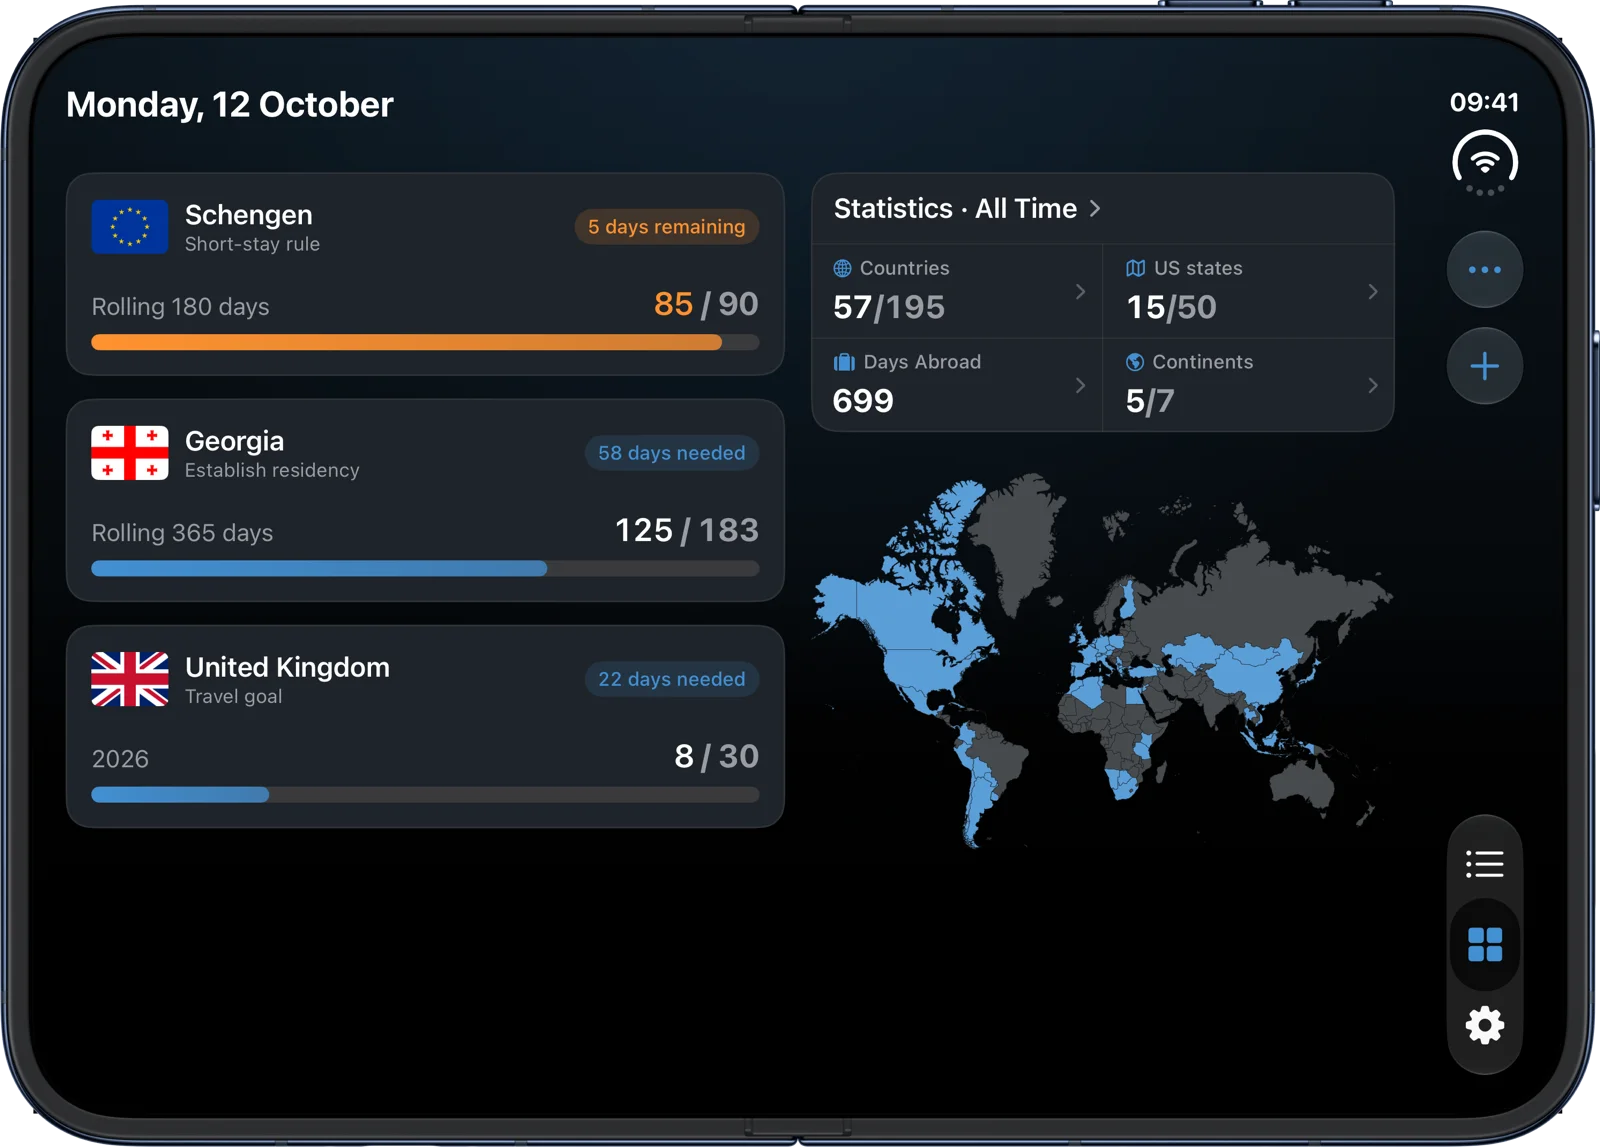
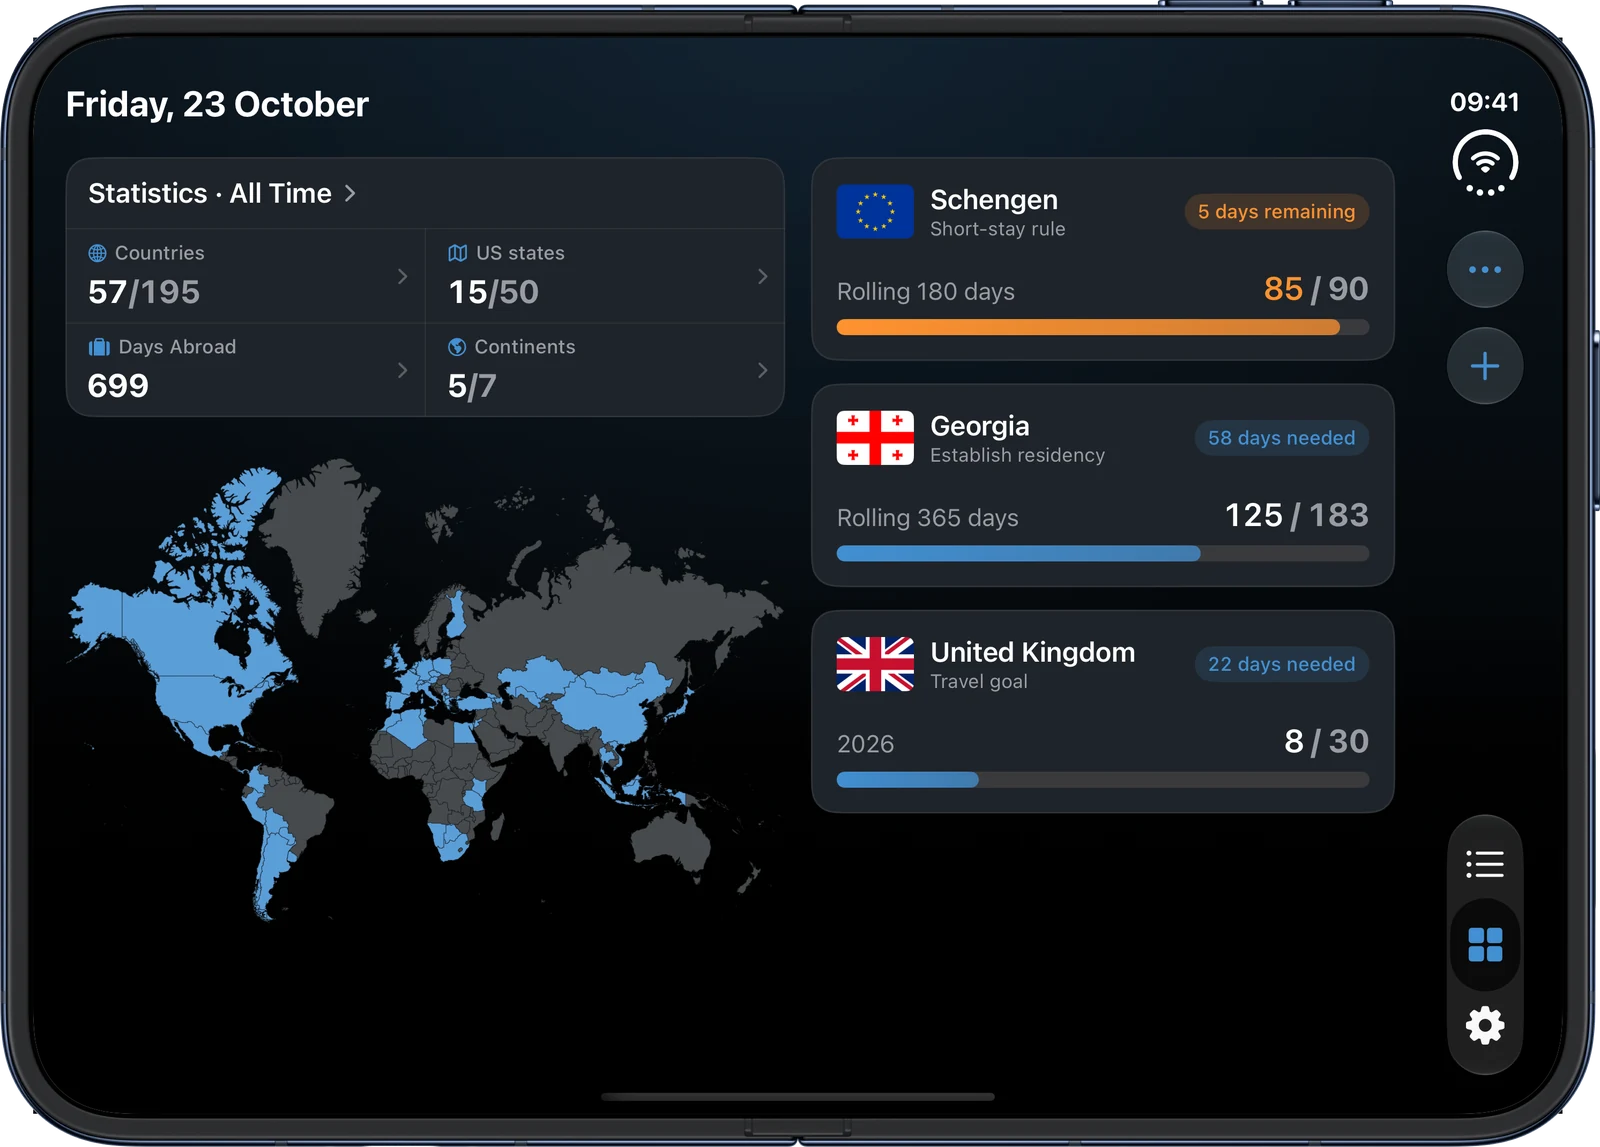
Press page: 2.7 Dashboard in the hero, dated 23 October
The opened Dashboard showed the pre-2.7 sides (trackers left); 2.7 puts
statistics and the map left and the trackers right. Both Dashboard shots
are retaken on alpha with the date line on the iPhone Duo's release day,
and the pair now opens the page instead of sitting below the fold.

Copy: the eyebrow names 2.7, the lede leads with what opening gives you,
the hinge card names UIHingeInteraction, and Settings shrinks from a
section to a fact card in place of the globe-centering one.

Changed region(s): [[0.0312, 0.1526, 0.875, 0.7934], [0.0312, 0.061, 0.25, 0.1221], [0.375, 0.9459, 0.625, 1.0]]

diff --git a/press/iphone-duo/index.html b/press/iphone-duo/index.html
@@ -44,6 +44,8 @@
     h1 { font-size: clamp(36px, 6vw, 60px); line-height: 1.05; letter-spacing: -0.02em; margin: 0 0 18px; }
     .byline { color: var(--muted); font-size: 15px; margin: 20px 0 0; }
     .byline a { color: inherit; }
+    .hero-pair { margin-top: 48px; }
+    .fact code { font: 14px ui-monospace, "SF Mono", Menlo, monospace; color: var(--text); }
     .lede { color: var(--muted); font-size: clamp(18px, 2.2vw, 21px); max-width: 660px; margin: 0 auto; }
 
     section { padding: 56px 0; border-top: 1px solid var(--line); }
@@ -93,10 +95,20 @@
 
     <main id="main-content">
       <div class="hero">
-        <p class="eyebrow">Coming in the next update</p>
+        <p class="eyebrow">Coming in AtlasDays 2.7</p>
         <h1>AtlasDays for iPhone&nbsp;Duo</h1>
-        <p class="lede">Closed, it is the iPhone app people know. Open it, and your trips and your calendar sit side by side.</p>
-        <p class="byline">By <a href="/about">Jorick van Meijeren</a> · Updated <time datetime="2026-10-13">13 October 2026</time></p>
+        <p class="lede">Open it, and your trackers, your statistics and your map sit side by side, right where you left them.</p>
+        <p class="byline">By <a href="/about">Jorick van Meijeren</a> · Updated <time datetime="2026-10-14">14 October 2026</time></p>
+        <div class="pair hero-pair">
+          <figure class="closed">
+            <img src="/assets/press/iphone-duo/dashboard-closed.webp" alt="AtlasDays dashboard on the closed iPhone Duo: a Schengen tracker with 85 of 90 days used, four statistics and a world map of visited countries" width="760" height="1061" />
+            <figcaption>Closed</figcaption>
+          </figure>
+          <figure class="open">
+            <img src="/assets/press/iphone-duo/dashboard-open.webp" alt="AtlasDays dashboard on the opened iPhone Duo in landscape: four statistics and a world map of visited countries in the left column, Schengen, Georgia and United Kingdom trackers in the right" width="1600" height="1147" />
+            <figcaption>Opened</figcaption>
+          </figure>
+        </div>
       </div>
 
       <section aria-labelledby="timeline">
@@ -114,20 +126,6 @@
         </div>
       </section>
 
-      <section aria-labelledby="dashboard">
-        <h2 id="dashboard">Room for the whole picture</h2>
-        <p class="section-copy">Closed, your trackers, the statistics and the map share one column. Open it and the dashboard splits along the fold: your trackers on one side, the statistics and the map on the other.</p>
-        <div class="pair">
-          <figure class="closed">
-            <img src="/assets/press/iphone-duo/dashboard-closed.webp" alt="AtlasDays dashboard on the closed iPhone Duo: a Schengen tracker with 85 of 90 days used, four statistics and a world map of visited countries" width="760" height="1061" />
-            <figcaption>Closed</figcaption>
-          </figure>
-          <figure class="open">
-            <img src="/assets/press/iphone-duo/dashboard-open.webp" alt="AtlasDays dashboard on the opened iPhone Duo in landscape: three trackers in the left column, four statistics and a world map of visited countries in the right" width="1600" height="1147" />
-            <figcaption>Opened</figcaption>
-          </figure>
-        </div>
-      </section>
 
       <section aria-labelledby="forecast">
         <h2 id="forecast">Know where you stand before you go</h2>
@@ -153,28 +151,14 @@
         </figure>
       </section>
 
-      <section aria-labelledby="settings">
-        <h2 id="settings">Settings, the way Apple's own works</h2>
-        <p class="section-copy">Closed, Settings is the familiar list. Opened, it becomes a sidebar with the page you picked beside it, so changing auto-detect or your home country never takes you away from the list.</p>
-        <div class="pair">
-          <figure class="closed">
-            <img src="/assets/press/iphone-duo/settings-closed.webp" alt="AtlasDays Settings on the closed iPhone Duo: Tracking, Appearance and Data sections in a list" width="760" height="1061" />
-            <figcaption>Closed</figcaption>
-          </figure>
-          <figure class="open">
-            <img src="/assets/press/iphone-duo/settings-open.webp" alt="AtlasDays Settings on the opened iPhone Duo in landscape: the settings list as a sidebar on the left and the Auto-Detect Trips page on the right" width="1600" height="1147" />
-            <figcaption>Opened</figcaption>
-          </figure>
-        </div>
-      </section>
 
       <section aria-labelledby="built">
         <h2 id="built">Built for the fold, not stretched to it</h2>
         <p class="section-copy">AtlasDays reads the device's posture and window, not the device type, so every screen gets the layout that fits it.</p>
         <div class="facts">
           <div class="fact">
-            <h3>Follows the hinge</h3>
-            <p>Partly open in landscape, the panes divide on the crease, so opening the last few degrees never reflows the calendar.</p>
+            <h3>Reads the hinge</h3>
+            <p>AtlasDays uses <code>UIHingeInteraction</code> from iOS&nbsp;27.1. Partly open in landscape, the panes divide on the crease, so opening the last few degrees never reflows the calendar.</p>
           </div>
           <div class="fact">
             <h3>Works with the side rail</h3>
@@ -185,8 +169,8 @@
             <p>Closed, it stays portrait like an iPhone. Opened, it turns freely, and folding never forces a rotation.</p>
           </div>
           <div class="fact">
-            <h3>Globes centered on the content</h3>
-            <p>On the closed display, the 3D globes in onboarding and import center on the content beside the side rail, not on the whole display.</p>
+            <h3>Settings as a sidebar</h3>
+            <p>Closed, Settings is the familiar list. Opened, the list becomes a sidebar with the page you picked beside it.</p>
           </div>
         </div>
       </section>
